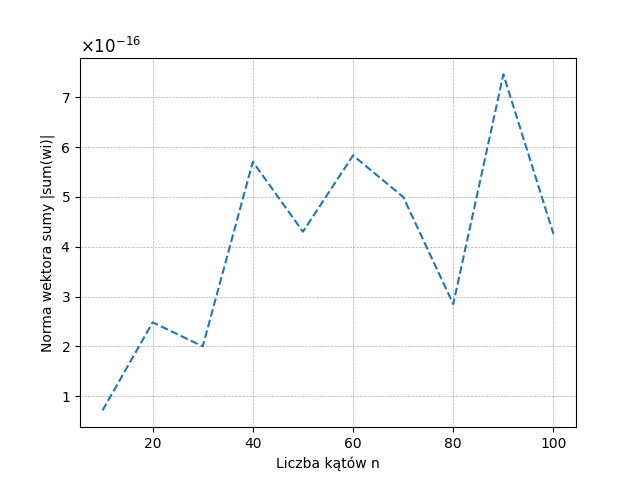
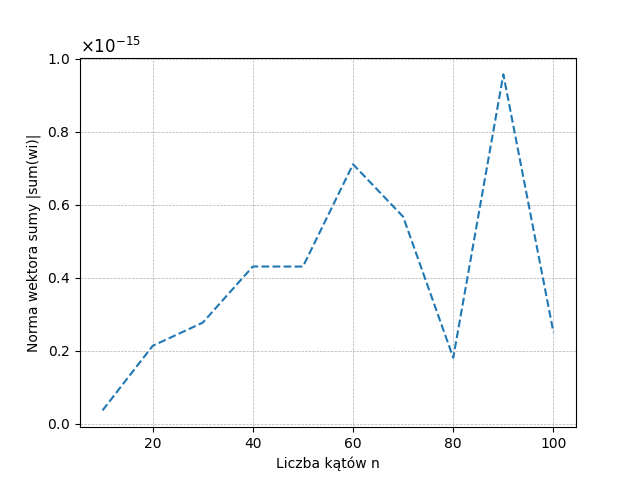
Zmiana float32 na float64

diff --git a/zadanie1.py b/zadanie1.py
@@ -7,7 +7,7 @@ def formatFloat(value):
     return format(value, ".15f").rstrip("0").rstrip(".")
 
 def calculateNextVector(prevVector, Theta):
-    matrix = np.array([[math.cos(Theta), -math.sin(Theta)], [math.sin(Theta), math.cos(Theta)]], dtype=np.float32)
+    matrix = np.array([[math.cos(Theta), -math.sin(Theta)], [math.sin(Theta), math.cos(Theta)]], dtype=np.float64)
     return np.dot(matrix, prevVector)
 
 def calculateNextPoint(prevPoint, vector):
@@ -24,8 +24,8 @@ def calculateAllPoints(startVector, startPoint, n, Theta):
     return allPoints
 
 def calculateAllVectors(n):
-    Theta = np.float32(2 * math.pi / n)
-    w_0 = np.array([math.cos(Theta) - 1, math.sin(Theta)], dtype=np.float32)
+    Theta = np.float64(2 * math.pi / n)
+    w_0 = np.array([math.cos(Theta) - 1, math.sin(Theta)], dtype=np.float64)
     vectors = [w_0]
     currVector = w_0
     
@@ -172,12 +172,12 @@ def printAllPoints(points):
 
 def comparision(list1, list2):
     return [a > b for a, b in zip(list1, list2)]
-
+    
 def main():
-    N = 4
-    Theta = np.float32(2 * math.pi / N)
-    w_0 = np.array([math.cos(Theta) - 1, math.sin(Theta)], dtype=np.float32)
-    v_0 = [np.float32(1), np.float32(0)]
+    N = 10
+    Theta = np.float64(2 * math.pi / N)
+    w_0 = np.array([math.cos(Theta) - 1, math.sin(Theta)], dtype=np.float64)
+    v_0 = [np.float64(1), np.float64(0)]
     points = calculateAllPoints(w_0, v_0, N, Theta)
     print(f"N = {N}")
     print("Vector of sum v_i {i = 0, 1, ... , N-1}: ", [formatFloat(sum) for sum in sumOfVectors(N)])
@@ -197,55 +197,55 @@ def main():
     drawPlot3(n_values2)
     
     list1 = [
-        1.4466350785860396e-08,
-        1.1906871802445299e-09,
-        1.30790987914415e-07,
-        1.7687660833337145e-07,
-        1.4745821329212025e-07,
-        2.9140472005782736e-07,
-        1.4185476278794944e-07,
-        1.326778874324335e-07,
-        4.7335220769652673e-07,
-        1.1630138463159517e-07
+        5.776865447512006e-17,
+        2.178246710040794e-16,
+        2.7749593374671904e-16,
+        4.366389559043215e-16,
+        3.7521762514616853e-16,
+        7.170942648917674e-16,
+        5.802501942811156e-16,
+        1.4549659367009322e-16,
+        9.653602161551593e-16,
+        2.2852089674716046e-16
     ]
 
     list2 = [
-        1.4466350785860396e-08,
-        1.1906871802445299e-09,
-        1.30790987914415e-07,
-        1.7687660833337145e-07,
-        1.4745821329212025e-07,
-        2.9140472005782736e-07,
-        1.4185476278794944e-07,
-        1.326778874324335e-07,
-        4.7335220769652673e-07,
-        1.1630138463159517e-07
+        3.592757177872429e-17,
+        2.1291146251044555e-16,
+        2.7651540219112816e-16,
+        4.3036584552857323e-16,
+        4.302065385085116e-16,
+        7.10639753250698e-16,
+        5.667254573082696e-16,
+        1.802431047354073e-16,
+        9.569748928461308e-16,
+        2.499290855688125e-16
     ]
     
     list3 = [
-        1.4829757804731e-06,
-        6.959776744594806e-05,
-        0.00016736768683020862,
-        0.00010151344642331543,
-        7.664847283891317e-05,
-        6.213958898549771e-05,
-        5.1749688433279413e-05,
-        4.4241196085588534e-05,
-        3.9099402234658836e-05,
-        3.455657428779676e-05
+        2.9253904180694534e-15,
+        6.818348870251833e-14,
+        1.4423995840287497e-13,
+        2.553266298773119e-13,
+        2.1946977254424066e-13,
+        2.040375048142444e-13,
+        2.5427590289815345e-13,
+        1.2594022013679212e-13,
+        5.869653531626222e-13,
+        7.468362569979524e-13
     ]
     
     list4 = [
-        1.4829757804731e-06,
-        6.959776744594806e-05,
-        0.00016736768683020862,
-        0.00010151344642331543,
-        7.664847283891317e-05,
-        6.213958898549771e-05,
-        5.1749688433279413e-05,
-        4.4241196085588534e-05,
-        3.9099402234658836e-05,
-        3.455657428779676e-05
+        2.8987052887423823e-15,
+        6.821050235112466e-14,
+        1.442597208668806e-13,
+        2.553013282394499e-13,
+        2.194599121626314e-13,
+        2.0405026493393717e-13,
+        2.54271606456453e-13,
+        1.2595385231501354e-13,
+        5.869909129018201e-13,
+        7.468651323840133e-13
     ]
     
     print("Percentage of vector sums calculated using the separation method that are closer to zero (n = [10, 100]): ", comparision(list1, list2).count(True)/len(comparision(list1, list2)))
